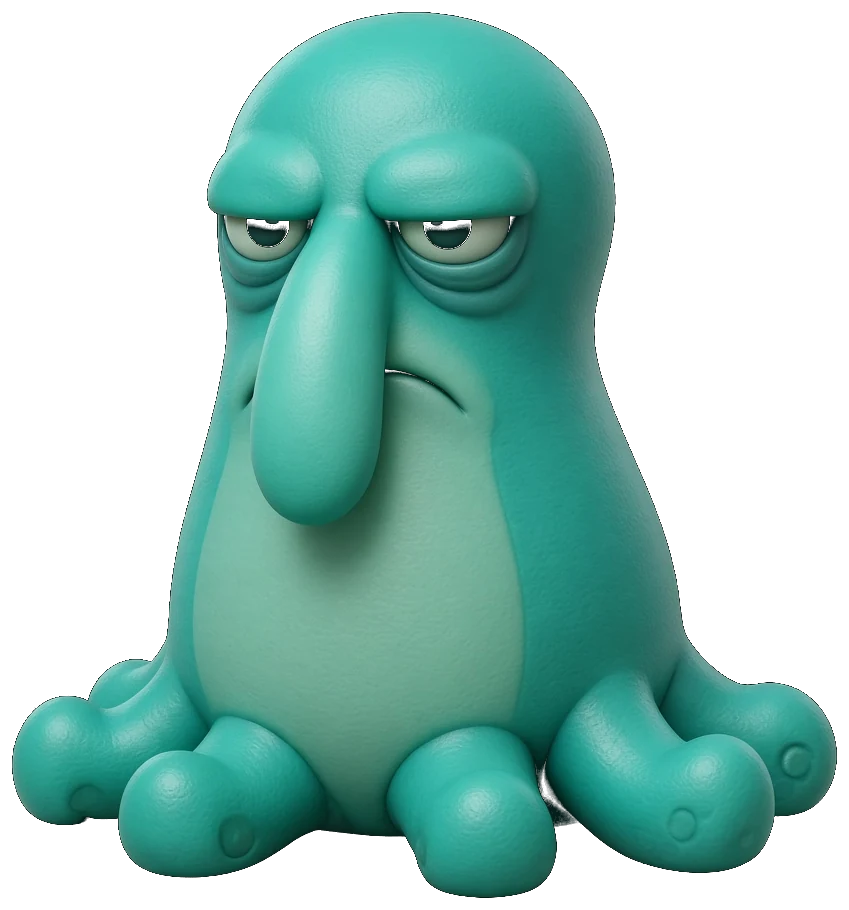
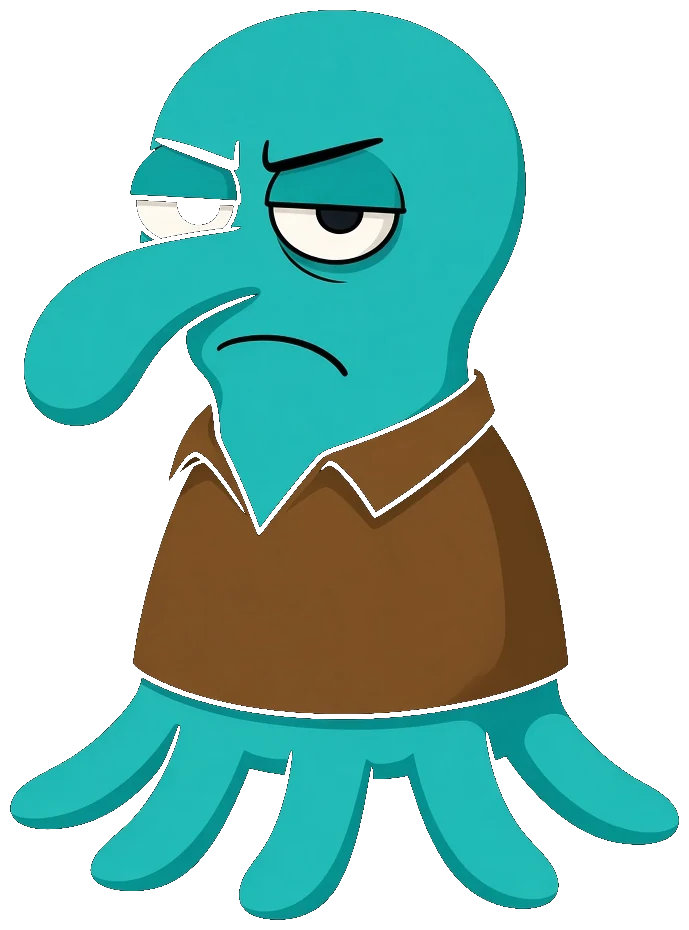
Replace the 3D octopus and chubby squirrel with cartoon table art.
Put the stone table inside Squidward's mint living room instead of the moai yard, and restyle the squirrel helmet so faces sit in a slim visor.

diff --git a/lib/octopus-ai.ts b/lib/octopus-ai.ts
@@ -3,12 +3,12 @@ import type { ChatMessage, Game, GameTitles, SubmitResult } from "./types";
 
 export type TitleNotes = NonNullable<GameTitles["notes"]>;
 
-const ROAST_SYSTEM = `你是石头房子前的章鱼哥，裁判成语接龙。
+const ROAST_SYSTEM = `你是自己家里的章鱼哥，裁判成语接龙。
 说话像群里随口一句：短、损、口语，有点嫌弃。
 禁止卖萌、禁止解释、禁止自称 AI、禁止感叹号堆砌。
 只输出 JSON：{"roast":"最多16个字"}`;
 
-const SETTLE_SYSTEM = `你是石头房子前的章鱼哥，散场打分。
+const SETTLE_SYSTEM = `你是自己家里的章鱼哥，散场打分。
 只评两个人：最丈育、最有文化。
 最丈育：胡话、假成语、接不上、老看提示。
 最有文化：正经接上、成语像样。

diff --git a/app/globals.css b/app/globals.css
@@ -45,9 +45,21 @@ body {
   flex-direction: column;
   overflow: hidden;
   background:
-    linear-gradient(180deg, rgba(6, 48, 68, 0.04) 0%, rgba(6, 48, 68, 0.12) 48%, rgba(6, 40, 54, 0.78) 100%),
-    url("/yard.webp") center 8% / cover no-repeat,
-    #063044;
+    linear-gradient(
+      180deg,
+      rgba(8, 36, 46, 0.58) 0%,
+      rgba(8, 36, 46, 0.14) 16%,
+      rgba(20, 50, 55, 0.03) 38%,
+      rgba(18, 42, 50, 0.18) 72%,
+      rgba(6, 32, 42, 0.48) 100%
+    ),
+    url("/yard.webp") center top / cover no-repeat,
+    #d8b8a8;
+}
+
+.screen header,
+.screen h1 {
+  text-shadow: 0 1px 8px rgba(0, 20, 28, 0.55);
 }
 
 .drawer {

diff --git a/app/layout.tsx b/app/layout.tsx
@@ -16,7 +16,7 @@ const display = ZCOOL_XiaoWei({
 
 export const metadata: Metadata = {
   title: "章鱼哥接龙",
-  description: "丈育谐音章鱼。围着石头房子顺时针接成语，散场评最丈育和最有文化。",
+  description: "丈育谐音章鱼。在章鱼哥家里围着石桌顺时针接成语，散场评最丈育和最有文化。",
   applicationName: "章鱼哥接龙",
 };
 

diff --git a/lib/wardrobe.ts b/lib/wardrobe.ts
@@ -34,8 +34,8 @@ export const OUTFITS: Outfit[] = [
     name: "松鼠头盔",
     price: 16,
     src: "/suit-diver.webp",
-    aspect: 647 / 884,
-    hole: { cx: 61.46, cy: 33.62, rw: 26.2, rh: 18.95 },
+    aspect: 491 / 932,
+    hole: { cx: 39.21, cy: 18.56, rw: 19.96, rh: 10.57 },
   },
 ];
 

diff --git a/components/octopus.tsx b/components/octopus.tsx
@@ -11,8 +11,8 @@ export function OctopusFigure({
     <Image
       src="/octopus.webp"
       alt=""
-      width={849}
-      height={910}
+      width={689}
+      height={930}
       priority={priority}
       className={`select-none object-contain ${className}`}
     />

diff --git a/README.md b/README.md
@@ -2,7 +2,7 @@
 
 上班群里那局「龙年大吉 → 鸡年大吉 → 舞动青春 → 春天来了」，被做成了一款能围桌玩的成语接龙。
 
-**丈育**谐音**章鱼**。石头房子前面坐着章鱼哥。
+**丈育**谐音**章鱼**。石桌摆在章鱼哥家里。
 
 ## 怎么玩
 
